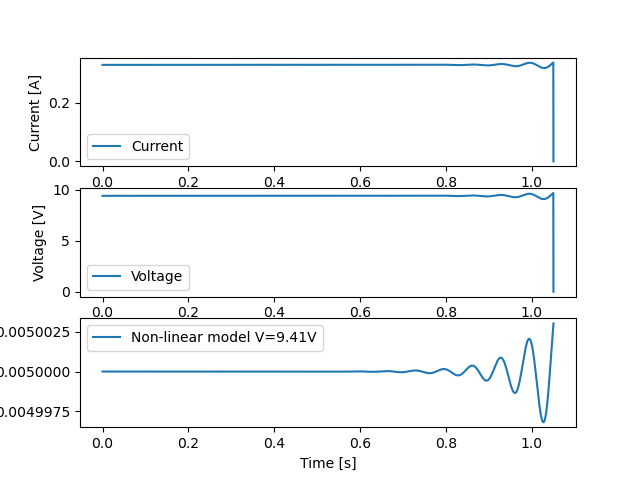
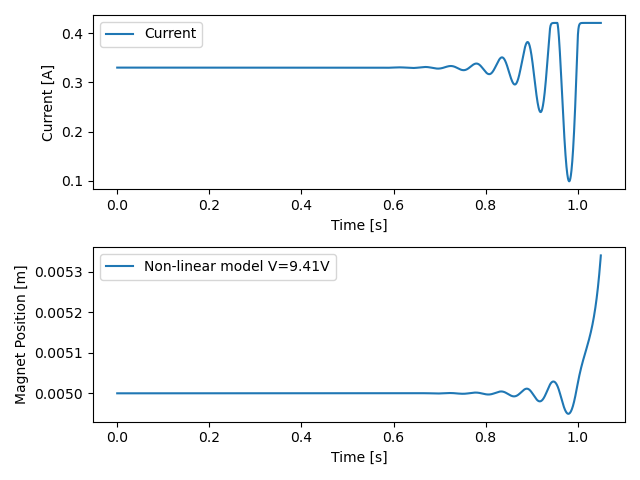
pd controller

diff --git a/simulator_nonlinear.py b/simulator_nonlinear.py
@@ -11,6 +11,7 @@ num_points = int(np.ceil((t_end - t_start) / dt))
 t_list = np.linspace(t_start, t_end, num_points)
 
 K_P = 100000.0
+K_D = 11.0
 
 M_BIG_MAGNET = 0.5920  # g
 M_MED_MAGNET = 0.2307  # g
@@ -22,7 +23,8 @@ NUM_MED_MAGNET = 5
 NUM_SMALL_MAGNET = 20
 NUM_NUT = 3
 
-GROUND = 0.15  # m
+MIN_DIST = 0.00001  # m
+MAX_DIST = 0.15  # m
 
 m = (
     M_BIG_MAGNET * NUM_BIG_MAGNET
@@ -43,43 +45,44 @@ pwm_setpoint = 200
 v_0 = 200.0/255.0 * 12.0
 i_0 = v_0/R  # amps
 L = 0.051337  # H
-
-
-
-v = np.zeros(num_points)
-i = np.zeros(num_points)
-x = np.zeros(num_points)
-x[0] = x_0
-x[1] = x_0
-i[0] = i_0
-v[0] = v_0
 C_1 = -0.0000036625377  # Tuned based on experimental data
 C_2 = (-(N**2) * u_0 * A**2) / 2.0
 
-for t in range(0, num_points - 2):
-    e =  x[t] - x_0
-    v_i = np.clip(K_P * e + v_0, -12.0, 12.0)
-    v[t + 1] = v_i
-    i[t + 1] = i[t] + dt * (v_i - R * i[t]) / L
-    x[t + 2] = np.clip(
-        (C_1 / 2.0 + C_2 * i[t] ** 2) * ((dt**2) / (m * x[t] ** 2))
-        - x[t]
-        + (g * (dt**2))
-        + 2 * x[t + 1],
-        0.00001,
-        GROUND,
-    )
-fig, axs = plt.subplots(3)
+def simulate(K_P, K_D):
+    v = np.zeros(num_points)
+    i = np.zeros(num_points)
+    x = np.zeros(num_points)
+    x[0] = x_0
+    x[1] = x_0
+    i[0] = i_0
+    v[0] = v_0
+    e_prev = 0
+
+    for t in range(0, num_points - 2):
+        e = x[t] - x_0
+        v_i = np.clip(K_P * e + K_D * (e - e_prev)/dt + v_0, -12.0, 12.0)
+        v[t + 1] = v_i
+        i[t + 1] = i[t] + dt * (v_i - R * i[t]) / L
+        x[t + 2] = np.clip(
+            (C_1 / 2.0 + C_2 * i[t] ** 2) * ((dt**2) / (m * x[t] ** 2))
+            - x[t]
+            + (g * (dt**2))
+            + 2 * x[t + 1],
+            MIN_DIST,
+            MAX_DIST,
+        )
+    i[-1] = i[-2] 
+    return i, x
+
+i, x = simulate(K_P, K_D)
+
+fig, axs = plt.subplots(2)
 
 axs[0].plot(t_list, i, label='Current')
 axs[0].set(xlabel='Time [s]', ylabel='Current [A]')
 axs[0].legend()
 
-axs[1].plot(t_list, v, label='Voltage')
-axs[1].set(xlabel='Time [s]', ylabel='Voltage [V]')
-axs[1].legend()
-
-axs[2].plot(t_list, x, label=f"Non-linear model V={v_0:.2f}V")
+axs[1].plot(t_list, x, label=f"Non-linear model V={v_0:.2f}V")
 # axs[1].hlines(
 #     GROUND,
 #     t_list[0],
@@ -88,8 +91,8 @@ axs[2].plot(t_list, x, label=f"Non-linear model V={v_0:.2f}V")
 #     linestyles="dashed",
 #     label="Ground Position",
 # )
-axs[2].set(xlabel='Time [s]', ylabel='Magnet Position [m]')
-axs[2].legend()
-
+axs[1].set(xlabel='Time [s]', ylabel='Magnet Position [m]')
+axs[1].legend()
+plt.tight_layout()
 plt.savefig("nonlinear_model.png")
 plt.show()
